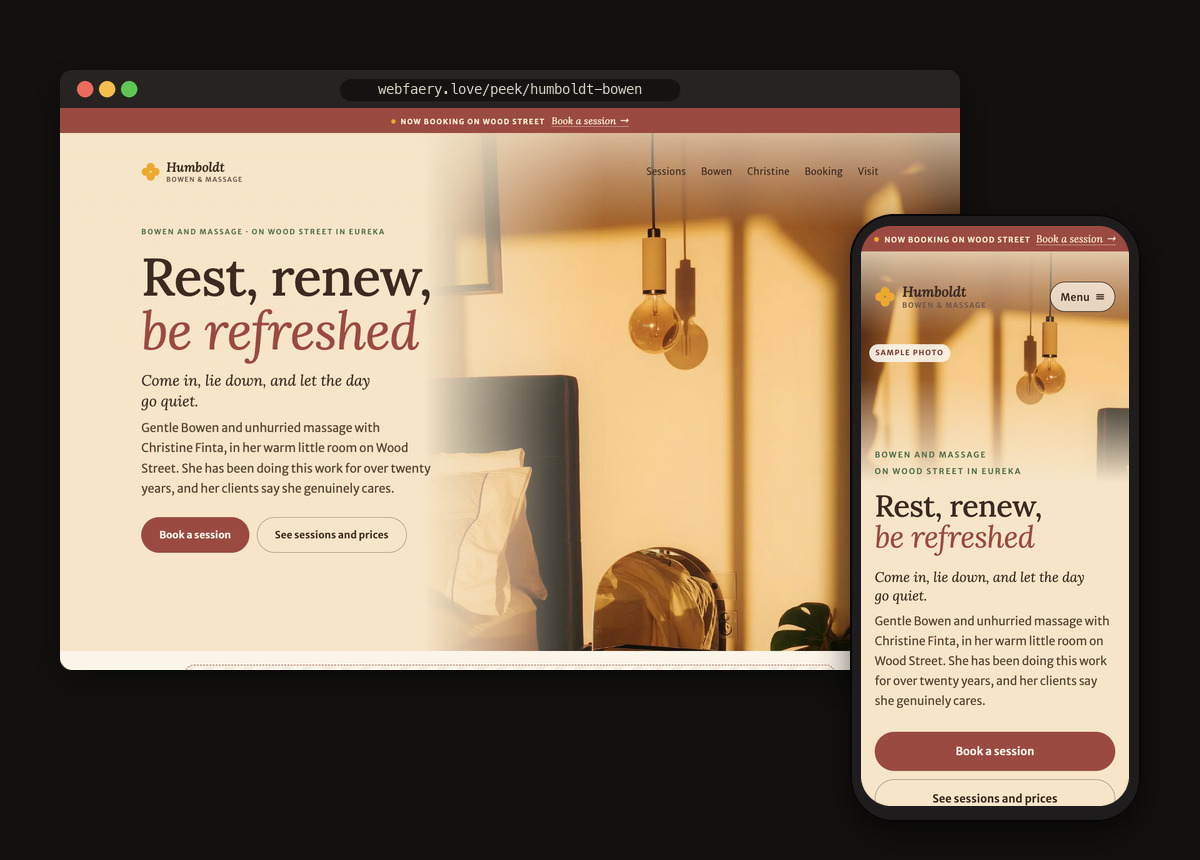
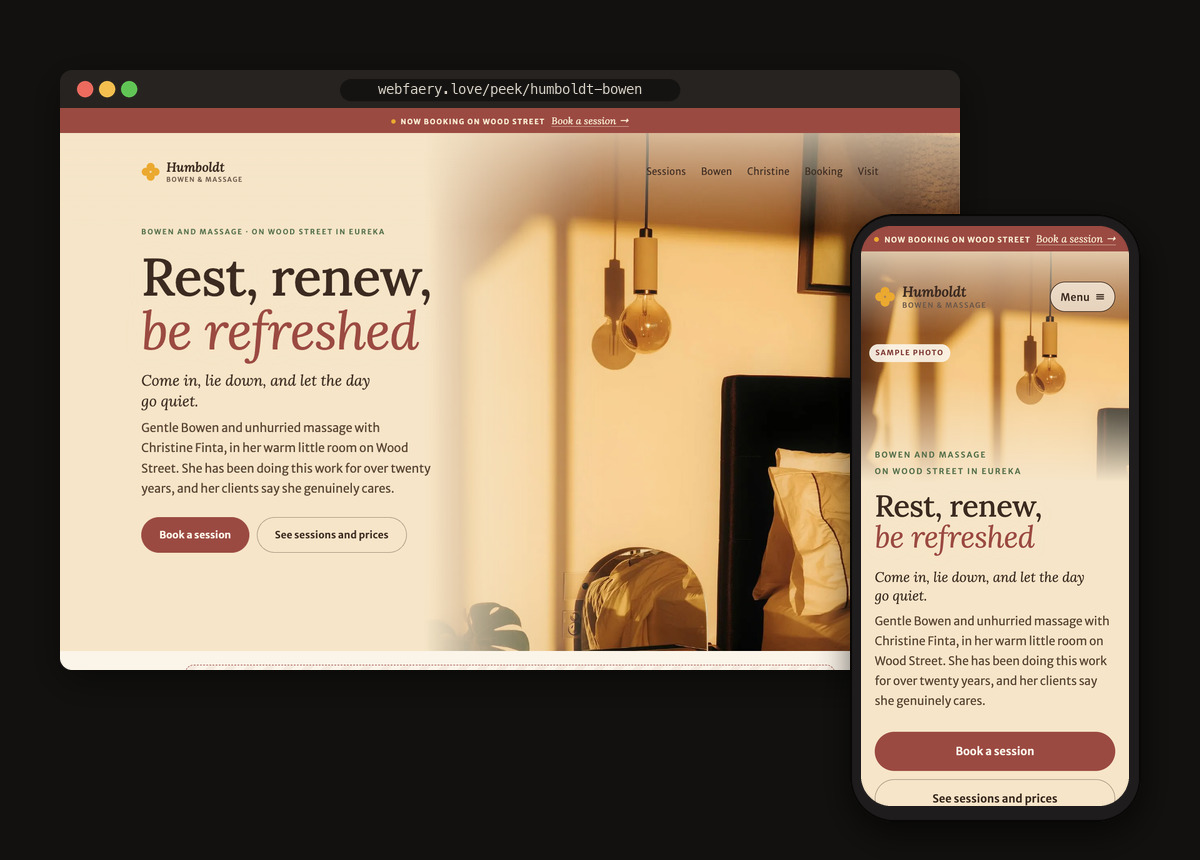
Mockup notes: Haven work photos all square; Bowen hero mirrored so the bed sits right

Changed region(s): [[0.37, 0.1512, 0.7708, 0.7558]]

diff --git a/peek/humboldt-bowen/index.html b/peek/humboldt-bowen/index.html
@@ -143,6 +143,8 @@
   .hero-photo { position: absolute; inset: 0 0 0 38%; z-index: 0; margin: 0;
     -webkit-mask-image: linear-gradient(90deg, transparent 0, transparent 4%, #000 36%); mask-image: linear-gradient(90deg, transparent 0, transparent 4%, #000 36%); }
   .hero-photo img { width: 100%; height: 100%; object-fit: cover; object-position: 100% 50%; display: block; }
+  /* desktop: the photo is mirrored so the bed sits on the far right, away from the words (the phone crop already has it on the right) */
+  @media (min-width: 761px) { .hero-photo img { transform: scaleX(-1); object-position: 30% 50%; } }
   .hero .sample { left: auto; right: 12px; }
   .hero::after { content: ""; position: absolute; inset: 0; z-index: 1; pointer-events: none;
     background: linear-gradient(180deg, color-mix(in srgb, var(--hero-ground) 72%, transparent) 0, transparent 150px); }

diff --git a/peek/haven-salon/index.html b/peek/haven-salon/index.html
@@ -298,7 +298,6 @@
   .gal { display: grid; grid-template-columns: repeat(4, minmax(0, 1fr)); gap: 10px; margin-top: 34px; }
   .gal figure { position: relative; margin: 0; }
   .gal img { width: 100%; height: auto; aspect-ratio: 4 / 5; object-fit: cover; display: block; border-radius: 2px; }
-  .gal figure:nth-child(1) img, .gal figure:nth-child(6) img { border-radius: 999px 999px 2px 2px; }
   .gal figcaption { font-size: 12px; letter-spacing: 0.1em; text-transform: uppercase; color: var(--ink-soft); margin-top: 6px; }
 
   /* REVIEWS */
